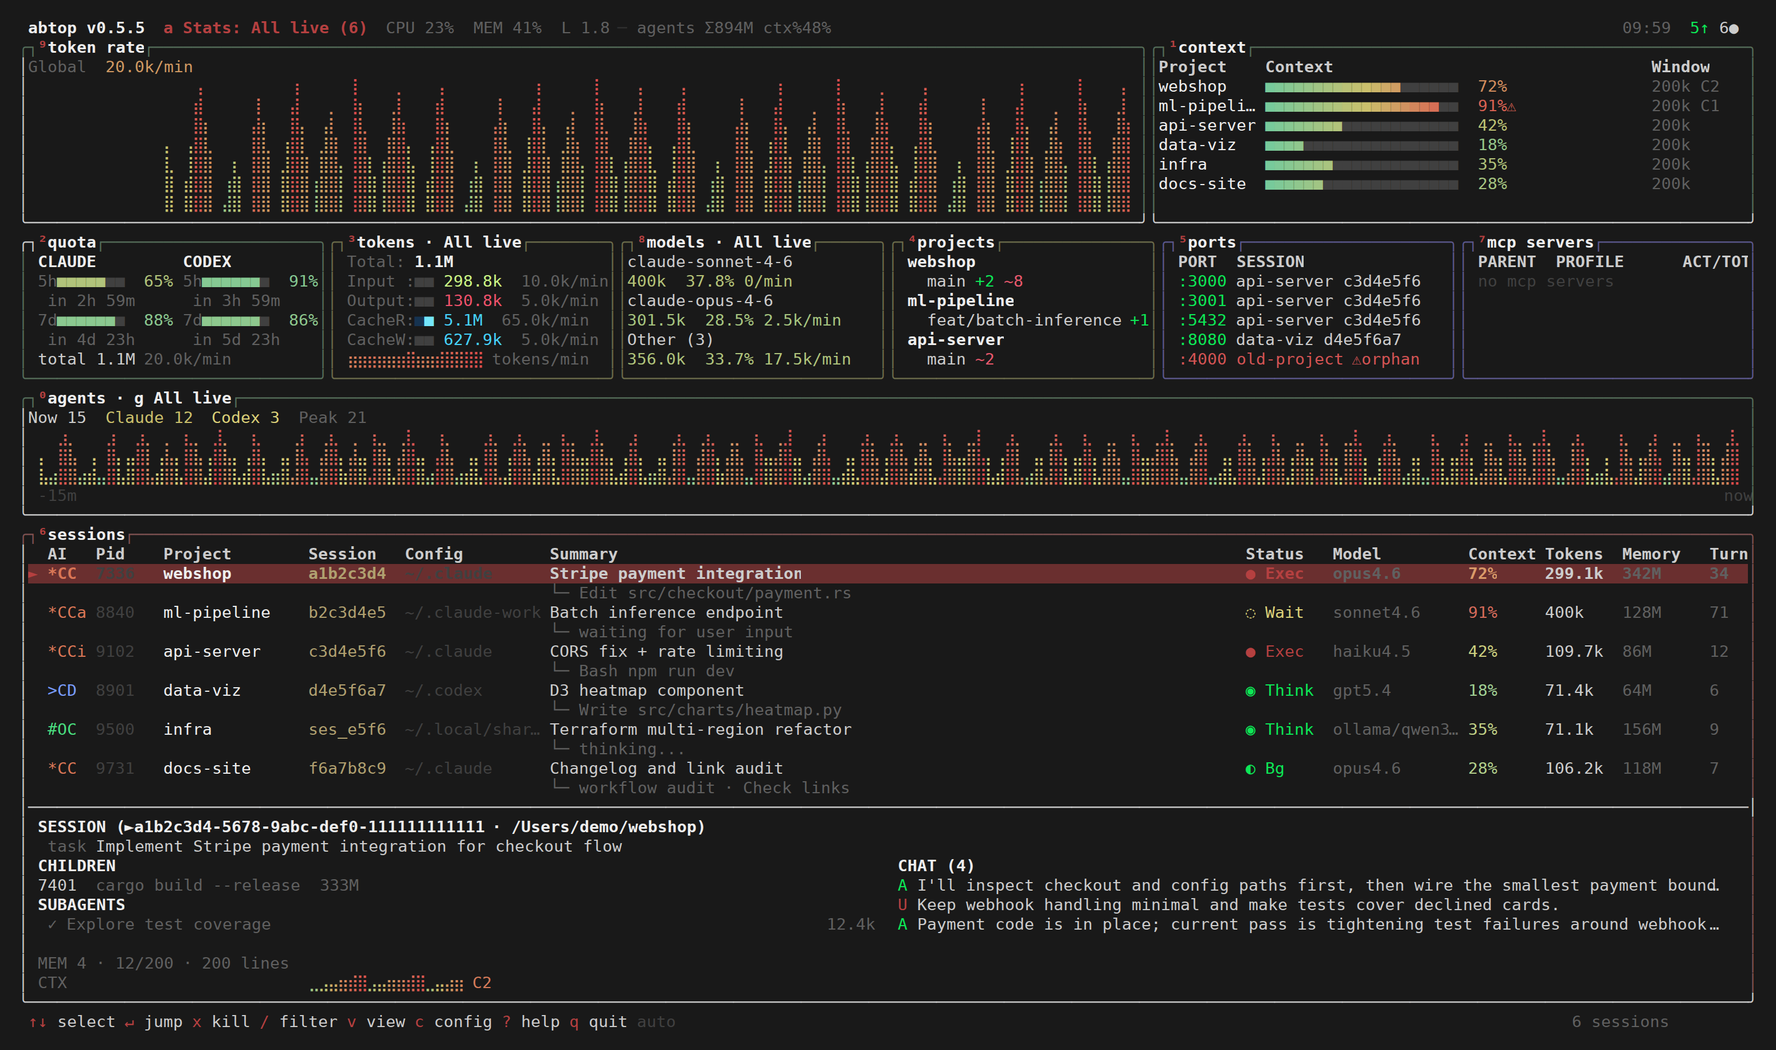
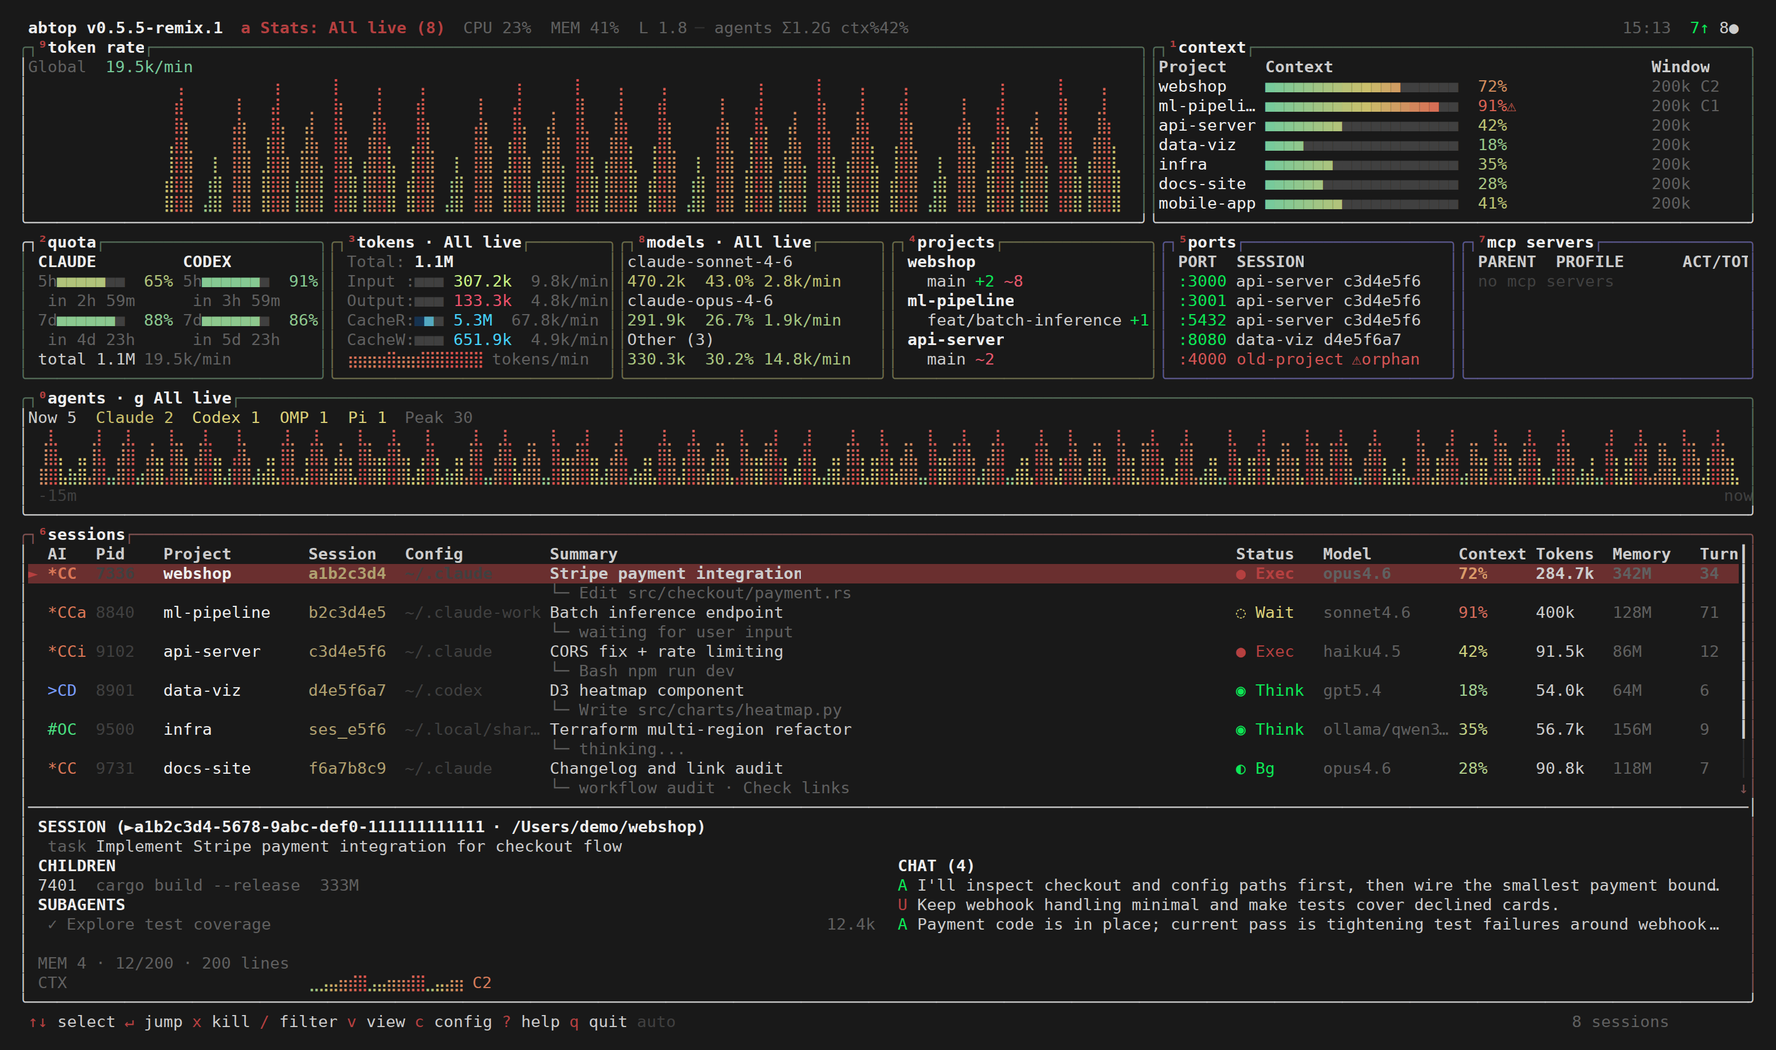
docs: document OMP and Pi support
AGENTS.md asks remix features to be listed in the README, detailed in
docs/remix-features.md, and shown in the demo screenshots. Add an OMP
and Pi section (discovery, transcript matching, status, and what is not
supported), extend the Agents pane, Bg status, and JSON snapshot notes,
document pi.rs in AGENTS.md, and regenerate assets/remix/ from the new
demo sessions.

diff --git a/AGENTS.md b/AGENTS.md
@@ -2,7 +2,7 @@
 
 AI agent monitor for your terminal. Like btop++, but for AI coding agents.
 
-Supports Claude Code, Codex CLI, and OpenCode sessions.
+Supports Claude Code, Codex CLI, OpenCode, OMP, and Pi sessions.
 
 > **Fork:** this repo is the `raphberube/abtop` fork, and its default branch is `remix`. Releases, merges from downstream (`graykode/abtop`), and GitHub Actions follow [docs/remix-release.md](docs/remix-release.md), which overrides the *Release Process* section below.
 >
@@ -33,6 +33,7 @@ src/
 │   ├── claude.rs           # Claude Code: session discovery, transcript parsing
 │   ├── codex.rs            # Codex CLI: session discovery via ps+lsof, JSONL parsing
 │   ├── opencode.rs         # OpenCode: session discovery via ps + SQLite DB parsing
+│   ├── pi.rs               # OMP and Pi: session discovery via ps + open files, JSONL parsing
 │   ├── process.rs          # Child process tree (ps) + open ports (lsof) + git stats
 │   └── rate_limit.rs       # Rate limit file reading (~/.claude/abtop-rate-limits.json)
 └── model/
@@ -81,7 +82,7 @@ Desktop rows (`desktop_layout`): every enabled pane reserves its floor before an
 The narrow Usage tab places Token rate and Context side by side in one `graph_band`, then Quota, Tokens, and Models. Stats floors come first (Quota 5 without its summary, Tokens 7, Models 3); the graph band (5 rows) comes next and yields as a unit only when those floors leave no room (below 23 terminal rows); rows above the floors then go, in order, to Quota's summary, a second Models row, and a sixth band row when the cache-read chart is on; spare rows are shared evenly. None of this changes persisted visibility. Short quota panes show reset countdowns inline; bars and aggregate summaries yield before quota values. Mouse targeting and keyboard zoom use the visible layout.
 
 Panel descriptions:
-- **⁰agents**: Full-width row directly above Sessions; also first in the narrow Work tab. Shows a stacked Claude/Codex braille histogram using the Token rate renderer and theme gradients for concurrent working main agents and subagents (all nesting levels), current provider counts, peak, and a compact Unknown annotation. Each working main session contributes one, including sessions with no children; working descendants contribute independently. Waiting/rate-limited/background main sessions contribute zero themselves. `0` toggles persisted `show_agents` (default true); `g` toggles independent `agent_scope` (default `all_live`, alternative `selected`). History retains timestamped samples for 15 minutes while hidden and after sessions close, with no disk persistence/backfill. Each rendered bucket keeps the provider counts from one simultaneous peak sample. Reserve a three-row summary after essential pane minima, grow Sessions to ideal first, then grow the chart to seven rows. Claude lifecycle uses launch/completion records, child turns, workflow journal `started`/`result`/`failed`, and the run's `workflows/{runId}.json` completion record; Codex uses child metadata and own-turn start/end events, excluding inherited history. Quiet unfinished work stays active. Token/model accounting remains separate; JSON exposes child-only `subagent_counts` and combined `agent_counts` without history. OpenCode subagent tracking is unavailable.
+- **⁰agents**: Full-width row directly above Sessions; also first in the narrow Work tab. Shows a stacked Claude/Codex braille histogram (OMP and Pi stack in the Codex layer) using the Token rate renderer and theme gradients for concurrent working main agents and subagents (all nesting levels), current provider counts, peak, and a compact Unknown annotation. Each working main session contributes one, including sessions with no children; working descendants contribute independently. Waiting/rate-limited/background main sessions contribute zero themselves. `0` toggles persisted `show_agents` (default true); `g` toggles independent `agent_scope` (default `all_live`, alternative `selected`). History retains timestamped samples for 15 minutes while hidden and after sessions close, with no disk persistence/backfill. Each rendered bucket keeps the provider counts from one simultaneous peak sample. Reserve a three-row summary after essential pane minima, grow Sessions to ideal first, then grow the chart to seven rows. Claude lifecycle uses launch/completion records, child turns, workflow journal `started`/`result`/`failed`, and the run's `workflows/{runId}.json` completion record; Codex uses child metadata and own-turn start/end events, excluding inherited history. Quiet unfinished work stays active. Token/model accounting remains separate; JSON exposes child-only `subagent_counts` and combined `agent_counts` without history. OpenCode subagent tracking is unavailable.
 - **¹context**: Project-labeled per-session context usage bars, percentages, window sizes, and compaction counts. `1` toggles persisted `show_context`.
 - **⁹token rate**: Global token rate braille chart (200-point history) and tokens/min, counting input, output, and cache creation but excluding cache reads. Independent of selection and Tokens/Models stats scope. `9` toggles persisted `show_token_rate`. A missing setting inherits `show_context` for compatibility; fresh configurations enable both. The narrow Usage tab places Token rate beside Context, above Quota, Tokens, and Models. The optional cache-read chart (`C`, persisted `show_cache_read_rate`, default false) appears below the original chart with independent scaling and the theme's cache gradient. Both charts use synchronized per-refresh category deltas and 200-point histories; their numeric tokens/min summaries use timestamped activity from the preceding 60 seconds, retaining observed activity until expiry after sessions close. Reuse is `cache reads / (input + cache reads + cache writes) × 100`, excluding output; show `—` without input-side activity. Short panes retain a cache summary. Enabling it raises the top row's ideal minimum to six rows on desktop and in the narrow graph band, with five-row compact fallback; pane-level controls remain unchanged. It measures token reuse, not dollar savings.
 - **²quota**: Claude + Codex rate limit gauges side-by-side (5h and 7d windows with reset countdown). Quota is intentionally limited to Claude and Codex; do not add an OpenCode row unless OpenCode exposes a reliable account-level provider rate-limit source.
@@ -183,7 +184,15 @@ Rate limits extracted from `token_count` events:
 - Match live PIDs to DB sessions by process cwd. OpenCode does not expose a PID/session mapping, so when multiple DB rows share one cwd, only live PIDs should be assigned and older rows should not be shown as live duplicates.
 - OpenCode contributes session/token/project/port data, but not quota data. Quota remains Claude + Codex only.
 
-### 5. Subagents and workflows: `~/.claude/projects/{path}/{sessionId}/`
+### 5. OMP and Pi sessions: `~/.omp/agent/sessions/`, `~/.pi/agent/sessions/`
+- One collector (`PiCollector`) serves both; `OMP_SPEC` / `PI_SPEC` hold the binary name, dot dir, and env vars.
+- Discover `omp` / `pi` processes via shared `ps` data (`cmd_matches_harness`, which also accepts Pi's npm package entry). Drop a launcher wrapper when its child is also a candidate; skip `__omp_worker_*` and Pi's non-interactive subcommands.
+- Agent dirs: `~/.{omp,pi}/agent`, `{OMP,PI}_CODING_AGENT_DIR`, the parent of `{OMP,PI}_CODING_AGENT_SESSION_DIR` (read from abtop's environment), plus any `<dir>/sessions/` ancestor of an open file.
+- Map PID → transcript, first match wins: open `sessions/<project>/<file>.jsonl`; open lock file (`run/session-owners/<sid>.lock` or `.<file>.jsonl.owner.lock`); `--session` / `--resume` argument; `terminal-sessions/<tty>`; newest unclaimed `.jsonl` in the cwd's session folder. The last step is a guess and can pick another session's file when several share a cwd.
+- Transcript lines: `session` (id, cwd, timestamp), `title` / `title_change`, `model_change`, `thinking_level_change` (effort), `message` with `usage` (`input`, `output`, `cacheRead`, `cacheWrite`) and `contextSnapshot`. Subagents are JSONL files under the folder named after the transcript, minus `.jsonl`.
+- Context % uses `context_window_for_model` (Claude sizes), so it is approximate for non-Claude models. No quota and no memory status.
+
+### 6. Subagents and workflows: `~/.claude/projects/{path}/{sessionId}/`
 - `subagents/agent-{hash}.jsonl` — same JSONL format as main transcript
 - `subagents/agent-{hash}.meta.json` — `{ "agentType": "general-purpose", "description": "..." }`
 - `subagents/workflows/{runId}/agent-{hash}.{jsonl,meta.json}` — agents of a Workflow run (`runId` like `wf_f13c2bf8-4a9`), same format
@@ -199,7 +208,7 @@ Each `pending*` key is omitted when its count is 0, so the latest `turn_duration
 
 Full on-disk reference for background work (launch results, task notifications, completion records, signals that look useful but aren't): [docs/claude-code-background-work.md](./docs/claude-code-background-work.md).
 
-### 6. Process tree: `ps` + `lsof`
+### 7. Process tree: `ps` + `lsof`
 ```bash
 ps -eo pid,ppid,rss,%cpu,command    # All processes
 lsof -i -P -n -sTCP:LISTEN         # Open ports
@@ -207,16 +216,16 @@ lsof -i -P -n -sTCP:LISTEN         # Open ports
 - Build parent→children map from ppid
 - Map listening PID → parent agent PID → session
 
-### 7. Git status per project
+### 8. Git status per project
 ```bash
 git -C {cwd} status --porcelain     # added/modified file counts
 ```
 
-### 8. Memory status
+### 9. Memory status
 - Path: `~/.claude/projects/{encoded-path}/memory/`
 - Count files in directory + lines in `MEMORY.md`
 
-### 9. Rate limit (Claude Code)
+### 10. Rate limit (Claude Code)
 
 NOT in transcript JSONL. Collected via StatusLine mechanism.
 
@@ -236,7 +245,7 @@ File format read by abtop:
 - Account-level metric, shared across all sessions.
 - Show "—" when not configured or data unavailable.
 
-### 10. Other files
+### 11. Other files
 - `~/.claude/stats-cache.json` — daily aggregates. Only updated on `/stats`, NOT real-time.
 - `~/.claude/history.jsonl` — prompt history with sessionId.
 
@@ -254,9 +263,9 @@ Claude Code (`src/collector/claude.rs`), checked in order, first match wins:
 ◌ Wait  = none of the above
 ```
 
-There is no transcript-mtime gate: Claude Code writes an assistant turn atomically, so mtime goes stale during long streamed replies. `◐ Bg` is checked before descendant CPU because a workflow agent's Bash calls are descendants of the session's pid. A Claude session whose pid is gone is dropped, not shown as Done. Codex and OpenCode have their own rules in their collectors and never emit `◐ Bg`. `⏳ Rate` is applied afterwards (`app.rs`) to `Waiting` sessions whose agent is above 90% rate-limit usage.
+There is no transcript-mtime gate: Claude Code writes an assistant turn atomically, so mtime goes stale during long streamed replies. `◐ Bg` is checked before descendant CPU because a workflow agent's Bash calls are descendants of the session's pid. A Claude session whose pid is gone is dropped, not shown as Done. Codex and OpenCode have their own rules in their collectors and never emit `◐ Bg`. OMP and Pi (`pi.rs`) check a pending tool call (`● Exec`), model generation (`◉ Think`), a working subagent (`◐ Bg`), then descendant and own CPU. `⏳ Rate` is applied afterwards (`app.rs`) to `Waiting` sessions whose agent is above 90% rate-limit usage.
 
-**PID reuse risk**: verify PID is still the expected agent process (Claude, Codex, or OpenCode) by checking `ps -p {pid} -o command=`. Don't trust PID alone.
+**PID reuse risk**: verify PID is still the expected agent process (Claude, Codex, OpenCode, OMP, or Pi) by checking `ps -p {pid} -o command=`. Don't trust PID alone.
 
 Current task (2nd line under each session):
 - Exec → last `tool_use` name + first arg (e.g. `Edit src/main.rs`)

diff --git a/docs/remix-features.md b/docs/remix-features.md
@@ -8,6 +8,7 @@ Every screenshot comes from `abtop --demo` and is regenerated with
 
 | Pane or feature | Key | Config | Section |
 |---|---|---|---|
+| OMP and Pi sessions | — | `hidden_agents` | [OMP and Pi](#omp-and-pi-sessions) |
 | Agents concurrency chart | `0`, scope `g` | `show_agents`, `agent_scope` | [Agents](#agents-pane) |
 | Context | `1` | `show_context` | [Token rate and Context](#token-rate-and-context-panes) |
 | Models with per-model rates | `8` | `show_models` | [Models](#models-pane) |
@@ -20,6 +21,35 @@ Every screenshot comes from `abtop --demo` and is regenerated with
 | Totals exclude cache reads | — | — | [Token accounting](#token-accounting) |
 
 ![abtop remix overview, with the cache-read chart enabled](../assets/remix/overview.png)
+
+## OMP and Pi sessions
+
+OMP (`omp`) and Pi (`pi`) sessions appear next to Claude Code, Codex CLI, and OpenCode, tagged
+`~OM` and `^PI`. Both write the same JSONL transcript format under `<agent dir>/sessions/`, so
+one collector handles both. Hide either with `hidden_agents = ["omp"]` or `["pi"]`.
+
+abtop finds running `omp` and `pi` processes, including Pi's npm launcher and the node process
+it starts (only the node child is shown). OMP background workers and Pi's non-interactive
+subcommands (`install`, `remove`, `uninstall`, `update`, `list`, `config`, `auth`, `mcp`) are
+skipped. Agent directories are `~/.omp/agent` and `~/.pi/agent`, plus `OMP_CODING_AGENT_DIR` /
+`PI_CODING_AGENT_DIR` and the parent of `OMP_CODING_AGENT_SESSION_DIR` /
+`PI_CODING_AGENT_SESSION_DIR` as set in abtop's own environment.
+
+Each process is matched to its transcript by trying, in order: an open transcript file, an open
+session lock file, a `--session` or `--resume` argument, the agent's
+`terminal-sessions/<tty>` record, and finally the newest unclaimed transcript in the folder for
+the process's working directory. A process with no match but a known working directory shows as
+`pid-<N>` without usage.
+
+The transcript provides the title, model, thinking level (the effort column), tokens, context,
+tool calls, current task, and chat. Subagents are the JSONL files in the folder named after the
+transcript; their tokens and models are included in the session's totals. Status is `● Exec`
+while a tool call is pending, `◉ Think` while the model generates, and `◐ Bg` while a subagent
+works after the turn ended; otherwise CPU of the process and its descendants decides.
+
+Not supported: quota (neither agent exposes an account-level rate limit), memory status, and
+model-specific context windows. Context % uses the Claude window sizes (200K, or 1M once the
+context goes past 200K), so it is approximate for other models.
 
 ## Token accounting
 
@@ -75,9 +105,9 @@ Both rate labels use tokens observed during the preceding 60 seconds, based on e
 
 ## Agents pane
 
-The **Agents** panel (`0`) sits above Sessions and charts the preceding 15 minutes of concurrent Claude Code and Codex agent work, including main sessions and subagents. Braille bars use the same rendering style as Token rate, with theme gradients distinguishing the two stacked providers; the legend shows current counts and the observed peak. Press `g` (or click the panel title with `--mouse`) to switch between **All live**, the default, and **Selected**. This scope is independent of Tokens/Models. Each actively working main session counts once, even without subagents. Its working descendants each count once as well: one working main session with two working subagents counts as three. Waiting and rate-limited main sessions do not contribute to the working count; their working children still do. Shell commands and workflow containers are excluded. The narrow Work tab supports the same panel and zoom controls. Short layouts retain its summary before hiding its chart.
+The **Agents** panel (`0`) sits above Sessions and charts the preceding 15 minutes of concurrent Claude Code, Codex, OMP, and Pi agent work, including main sessions and subagents. Braille bars use the same rendering style as Token rate, with theme gradients distinguishing Claude from the other providers, which share the Codex gradient; the legend shows current counts and the observed peak. Press `g` (or click the panel title with `--mouse`) to switch between **All live**, the default, and **Selected**. This scope is independent of Tokens/Models. Each actively working main session counts once, even without subagents. Its working descendants each count once as well: one working main session with two working subagents counts as three. Waiting and rate-limited main sessions do not contribute to the working count; their working children still do. Shell commands and workflow containers are excluded. The narrow Work tab supports the same panel and zoom controls. Short layouts retain its summary before hiding its chart.
 
-A child counts as working during an unfinished work turn, including model generation and tool execution. Quiet periods do not automatically mark it done. Claude uses child transcripts, launch/completion records, and workflow journal starts, results, and failures; Codex uses child-thread relationships and turn start/completion/interruption events. A small **Unknown** count identifies incomplete lifecycle evidence. Discovery is best-effort and can lag a refresh; filesystem-only Codex children can take up to the 10-second discovery interval to appear. OpenCode subagent tracking is unavailable.
+A child counts as working during an unfinished work turn, including model generation and tool execution. Quiet periods do not automatically mark it done. Claude uses child transcripts, launch/completion records, and workflow journal starts, results, and failures; Codex uses child-thread relationships and turn start/completion/interruption events; OMP and Pi use the subagent transcripts next to the session's. A small **Unknown** count identifies incomplete lifecycle evidence. Discovery is best-effort and can lag a refresh; filesystem-only Codex children can take up to the 10-second discovery interval to appear. OpenCode subagent tracking is unavailable.
 
 Agent history starts when abtop observes activity, continues while the pane is hidden, and remains in memory for 15 minutes. Closing a session lowers the current count without deleting its history. Each bar preserves a real simultaneous peak sample when the window is wider than the chart. History resets when abtop exits; it is not reconstructed from old transcripts. Token and model totals keep their existing accounting.
 
@@ -93,8 +123,8 @@ the work: `workflow <name> · <working agent>`, `waiting on N workflows`,
 
 A Background root does not count toward the Agents pane; its working children do. Background
 Bash (`run_in_background`) and Monitor tasks are not tracked, so a session waiting only on those
-still shows `◌ Wait`. Codex and OpenCode never report `◐ Bg`. The on-disk signals and their
-caveats are in [claude-code-background-work.md](claude-code-background-work.md).
+still shows `◌ Wait`. OMP and Pi report `◐ Bg` while a subagent works; Codex and OpenCode never
+do. The on-disk signals and their caveats are in [claude-code-background-work.md](claude-code-background-work.md).
 
 ## Progressive startup
 
@@ -123,4 +153,4 @@ Each JSON session includes `model_usage`, an array of `{ "model": "...", "total_
 
 Stats scope affects the TUI only; `--once` and JSON snapshots retain their per-session output. Library users constructing `AppConfig` literals must supply `stats_scope` (or use `..Default::default()`). Existing `App` constructors default to `StatsScope::Selected`; set `app.stats_scope` explicitly to use another scope when rendering the TUI.
 
-JSON snapshots add `subagent_counts` to each session (`working`, `unknown`) and to the top level (separate `claude` and `codex` counts). These remain child-only counts. The top-level `agent_counts` field includes working main sessions and their working children, matching the Agents chart. Both are complete current counts, independent of UI scope and the capped subagent detail list; history is not exported. A one-shot snapshot may precede background discovery of Codex children without open file descriptors.
+JSON snapshots add `subagent_counts` to each session (`working`, `unknown`) and to the top level (separate `claude`, `codex`, `omp`, and `pi` counts). These remain child-only counts. The top-level `agent_counts` field includes working main sessions and their working children, matching the Agents chart. Both are complete current counts, independent of UI scope and the capped subagent detail list; history is not exported. A one-shot snapshot may precede background discovery of Codex children without open file descriptors.

diff --git a/README.md b/README.md
@@ -11,13 +11,14 @@ Claude Code, Codex CLI, OpenCode, OMP, and Pi sessions are discovered from local
 
 This is the [`raphberube/abtop`](https://github.com/raphberube/abtop) fork (`remix` branch). On top of upstream it adds:
 
-- **Agents pane** (`0`, scope `g`): a 15-minute chart of concurrent Claude Code and Codex agents, subagents included.
+- **OMP and Pi sessions**: discovered alongside Claude Code, Codex CLI, and OpenCode, with tokens, context, current task, subagents, and `◐ Bg`.
+- **Agents pane** (`0`, scope `g`): a 15-minute chart of concurrent Claude Code, Codex, OMP, and Pi agents, subagents included.
 - **Token rate** (`9`) and **Context** (`1`) as two independent top-row panes.
 - **Cache-read chart and Reuse %** (`C`): cache reads/min under Token rate, with the share of input-side tokens served from cache.
 - **Models pane** (`8`): per-model lifetime totals, share, and tokens/min.
 - **Per-category rates** in Tokens: Input, Output, CacheR, and CacheW each show tokens/min.
 - **Selected / All live scope** (`a`): Tokens and Models switch between the selected session and every live session.
-- **`◐ Bg` status**: a Claude session whose turn ended while a workflow or background agent keeps working no longer looks like it is waiting on you.
+- **`◐ Bg` status**: a Claude, OMP, or Pi session whose turn ended while a workflow or background agent keeps working no longer looks like it is waiting on you.
 - **Progressive startup**: sessions appear one by one as they are parsed instead of after the full scan.
 - **Token totals exclude cache reads**: totals count input + output + cache writes, and nested Claude subagents and workflow agents are included.
 
